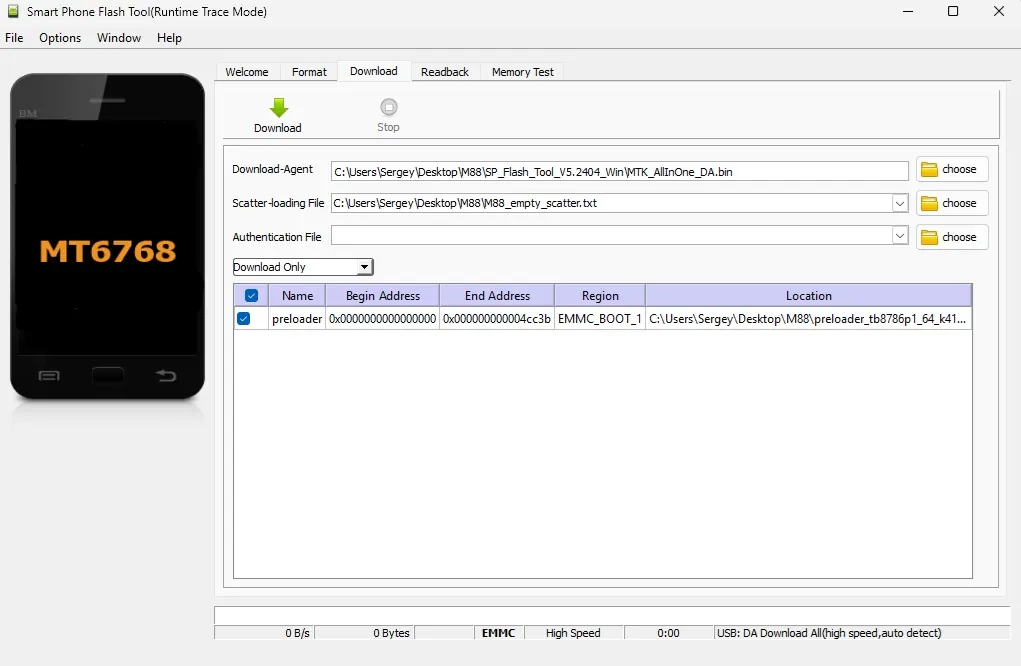
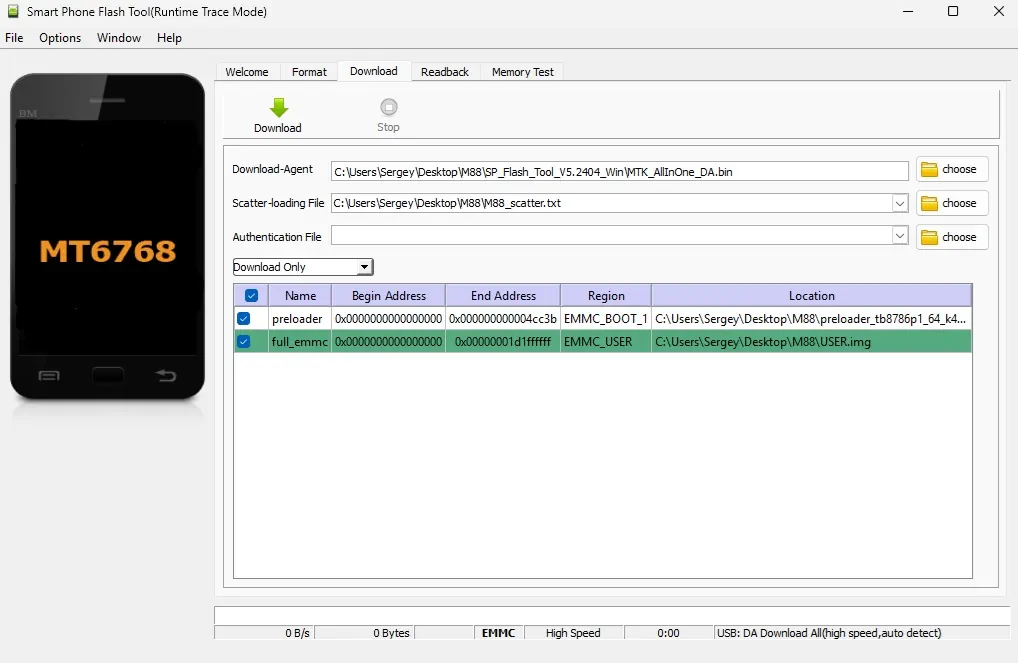
Update README.

diff --git a/src/db/UI/FirmwareUpgradeDialog.py b/src/db/UI/FirmwareUpgradeDialog.py
@@ -3,7 +3,6 @@ import shutil
 import threading
 import time
 import tkinter as tk
-from pathlib import Path
 from tkinter import ttk, scrolledtext
 
 from src.MT6768.UIPipeline import UIPipeline
@@ -48,16 +47,6 @@ class FirmwareUpgradeDialog:
             self.layout_2()
         else:
             self.layout_3()
-
-       # self.check_var = tk.Variable()
-       # chk = ttk.Checkbutton(self.top, text=Strings.Current.SAVE_DB_CHECK_BOX_TITLE, variable=self.check_var, command=self.on_check_box_click)
-       # chk.pack(pady=(8, 0))
-
-
-
-        #proceed_btn = ttk.Button(btn_frame, text=proceed_text, command=self.proceed, width=12)
-       # proceed_btn.pack(side="left", padx=8)
-
 
         self.top.focus_force()
         self.top.update_idletasks()
@@ -173,12 +162,11 @@ class FirmwareUpgradeDialog:
         return f"{minutes:02d}:{seconds:02d}"
 
     def check_state(self):
-        free_gb = shutil.disk_usage(os.getcwd()).free / (1024 ** 3)
-        Path(GlobalUI.firmware_folder)
         if not os.path.exists(GlobalUI.firmware_folder):
             return 0
         if not os.path.exists(GlobalUI.user_file):
             return 1
+        free_gb = shutil.disk_usage(os.getcwd()).free / (1024 ** 3)
         if free_gb < self.free_space:
             return 2
         return 3

diff --git a/src/db/UI/ProxyPopup.py b/src/db/UI/ProxyPopup.py
@@ -42,8 +42,6 @@ class ProxyPopup:
         self.text_label.config(state="disabled")
         self.text_label.pack(padx=(6, 0), pady=(5, 0))
         self.top.bind("<Button-1>", self._close_on_outside_click)
-        #msg_label = ttk.Label(frame, text=Strings.Current.PROXY_HINT_EX + GlobalUI.proxy_example, font=("Consolas", 8))
-        #msg_label.pack(anchor="e", padx=(0, 6), pady=(5, 0))
 
     def center_window(self, parent):
         self.top.update_idletasks()

diff --git a/src/db/UI/Helpers/VersionChecker.py b/src/db/UI/Helpers/VersionChecker.py
@@ -7,6 +7,8 @@ class VersionChecker:
 
     @staticmethod
     def check_new_version():
+
+        # noinspection PyBroadException
         try:
             response = requests.get(GlobalUI.repo_latest_url, timeout=30)
             response.raise_for_status()

diff --git a/src/db/UI/Helpers/SimilarNames.py b/src/db/UI/Helpers/SimilarNames.py
@@ -16,6 +16,7 @@ class SimilarNames:
     def sort_by_similarity(q, names_list, limit=None):
         q = SimilarNames.clean_name(q)
 
+        # noinspection PyUnusedLocal
         def scorer(a, b, score_cutoff=0):
 
             clean_a = a

diff --git a/README.md b/README.md
@@ -293,12 +293,15 @@ On your window the device is yet unknown, the key is to find VID like VID_0E8D t
 
 1. For MediaTek device install the [driver](https://mtkdriver.com/install-mtk-driver)*.
 2. Install [software](https://spflashtools.com/windows/sp-flash-tool-v5-2404) to perform read / write operations.
-3. For MT6768 download the [preloader](resources/m88/preloader_tb8786p1_64_k419.bin)**. (Check its [sha512](resources/m88/sha512.txt)).
-4. Download the [empty scatter](resources/m88/M88_empty_scatter.txt) file***.
+3. For MT6768 download and unpack the scatter** and the preloader*** from [here](https://github.com/SergeyVorobiev/M88-GameStick-Patch/releases/download/v1.2.0/Preloader&Scatter.7z). (Check preloader's [sha512](resources/m88/sha512.txt)).
 
 \* *If your driver does not have digital signature read [this](https://photobyte.org/installing-unsigned-drivers-on-windows-10-or-11/).*
 
-\** *Without a preloader you will not be able to write to and read from eMMC.
+\** *It is a markup file that gives information of where and what is placed on eMMC. 
+Usually a program only needs to know where to begin reading / writing and for how long. 
+Place the scatter and preloader in the same directory.*
+
+\*** *Without a preloader you will not be able to write to and read from eMMC.
 If the provided preloader does not fit then use [mtk client](https://github.com/bkerler/mtkclient) to get one:*
 
 1. Install mtk client.
@@ -307,10 +310,6 @@ If the provided preloader does not fit then use [mtk client](https://github.com/
 4. Enter [BROM Mode](#enter-brom-mode).
 
 You will get chip information, eMMC information and extracted preloader in the mtk client root folder.
-
-\*** *It is a markup file that gives information of where and what is placed on eMMC. 
-Usually a program only needs to know where to begin reading / writing and for how long. 
-Place the scatter and preloader in the same directory.*
 
 ### Read From eMMC
 
@@ -352,15 +351,13 @@ Use [7-zip](https://www.7-zip.org/download.html) to open your USER* image, it wi
 ### Write to eMMC
 
 1. Download, unpack and verify sha512 of [patched image](https://github.com/SergeyVorobiev/M88-GameStick-Patch/releases/download/v1.2.0/USER_v2.2.7z) or use your upgraded one.
-2. Download the [scatter](resources/m88/M88_scatter.txt) file and use it instead of empty one. Place your 
-preloader, scatter and patched image in the same folder.
-3. Check the size of the image, edit if needed:
+2. Check the size of the image, edit if needed:
 ```
 partition_size: 0x1d2000000
 ```
 0x1d2000000 = 7818182656 bytes.
 
-4. Open Flash Tool.
+3. Open Flash Tool.
 
 You have two options (both include **FORMATTING**). The first one is more preferable.
 
